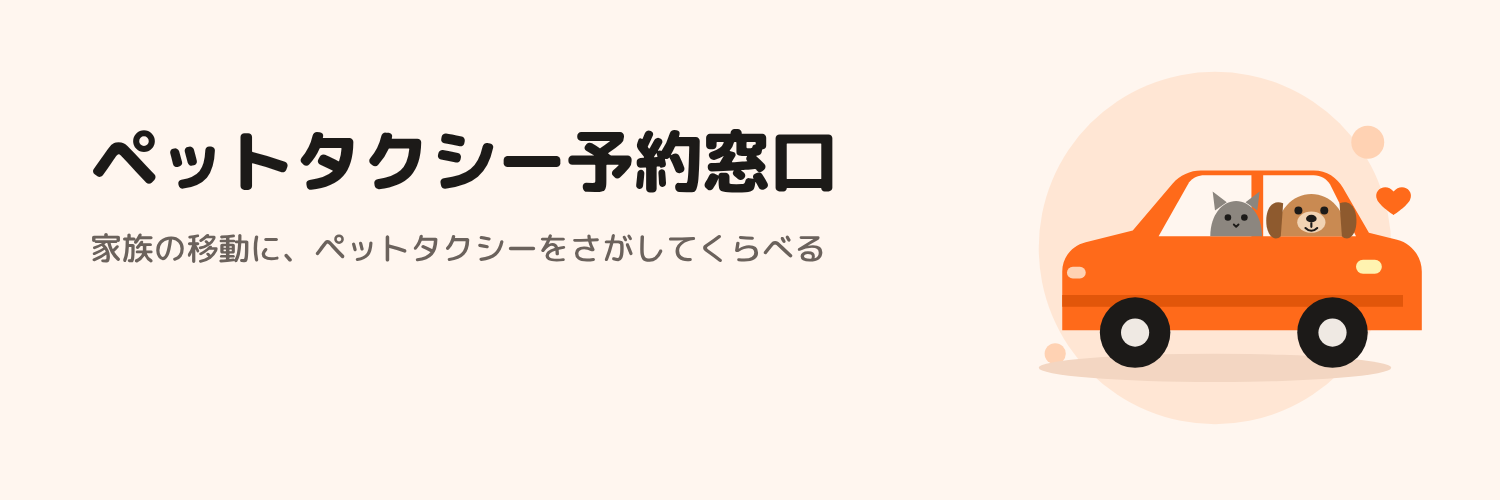
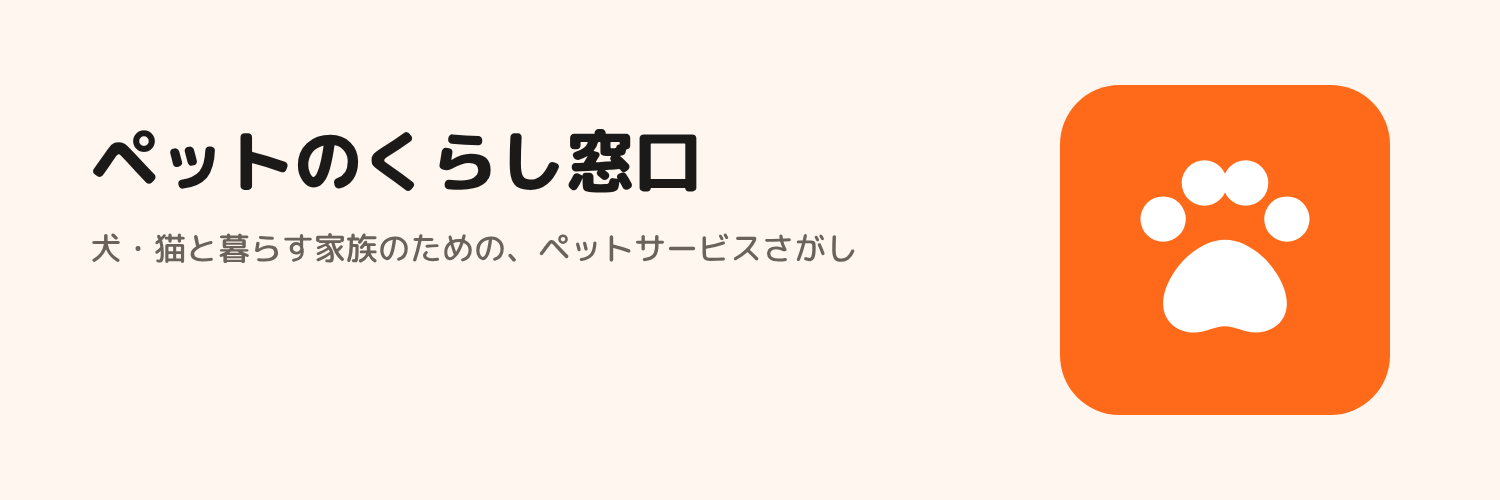
[B] SNS：名前を「ペットのくらし窓口」に（肉球アイコン・ヘッダー・自己紹介・1本目） (#197)
Claude-Session: https://claude.ai/code/session_01Tf5d8e4xt7p1ztL65b1WQs

Changed region(s): [[0.6747, 0.12, 0.9507, 0.87], [0.184, 0.24, 0.5827, 0.39], [0.0613, 0.45, 0.5827, 0.54]]

diff --git a/sns/schedule_x.py b/sns/schedule_x.py
@@ -1,5 +1,5 @@
 #!/usr/bin/env python3
-"""Xの予約投稿（ペットタクシー予約窓口 @pettaxi_yoyaku）。
+"""Xの予約投稿（ペットのくらし窓口。旧 @pettaxi_yoyaku）。
 
 Nori 2026-11-02「僕の作業はゼロにしたい」「無料でもう1つ（週2回）」。
 sns/posts.json の投稿を、まだ予約していない順に、火曜と金曜の20時（日本時間）へ予約する。
@@ -14,7 +14,7 @@ import json, os, subprocess, sys, time, datetime as dt, urllib.request, urllib.e
 HERE = os.path.dirname(os.path.abspath(__file__))
 ROOT = os.path.dirname(HERE)
 API = "https://api.typefully.com/v2"
-HANDLES = {"pettaxi_yoyaku", "shiokonbu_pet"}  # ユーザー名を変えても同じアカウントに入れる
+HANDLES = {"pettaxi_yoyaku", "pet_kurashi", "petkurashi_mado"}  # ユーザー名を変えても同じアカウントに入れる
 JST = dt.timezone(dt.timedelta(hours=9))
 SLOTS = {1: 20, 4: 20}  # 火曜(1)・金曜(4) の20時
 # 文の決まり（AGENTS.md）。1つでも入っていたら予約しない。

diff --git a/sns/README.md b/sns/README.md
@@ -1,4 +1,6 @@
-# XとInstagramの専用アカウント（ペットタクシー予約窓口）
+# XとInstagramの専用アカウント（ペットのくらし窓口）
+
+[B] SNS。2026-11-03 構想 v1.0（`docs/concept.md`：ペットタクシーを上位概念にしない）に合わせて、名前を「ペットタクシー予約窓口」から「ペットのくらし窓口」に変えた（Nori「shiokonbuはつかわないで」「そうしよ」）。名前・ユーザー名に shiokonbu は使わない。
 
 2026-11-02 Nori「X, Instagramは新しい専用のアカウントを作って、投稿するのはアリ」「リンクは貼らない」。
 ガイド記事の中身を、リンクなしの短い投稿にして発信する。サイトへの道は、プロフィールのウェブサイト欄だけ。
@@ -7,7 +9,7 @@
 |---|---|
 | `posts.json` | 投稿の元データ（直すのはここ） |
 | `posts.md` | 最初の10投稿（X用・Instagram用の文、コピーして貼る） |
-| `img/avatar.png` | アイコン（X・Instagram共通、1024×1024。LINEの案Bと同じ絵） |
+| `img/avatar.png` | アイコン（X・Instagram共通、1024×1024。オレンジの肉球マーク＝サイトの favicon と同じ形） |
 | `img/x-header.png` | Xのヘッダー（1500×500） |
 | `img/post01.jpg`〜`post10.jpg` | 投稿の画像（1080×1350、X・Instagram共通） |
 | `gen.cjs` | 画像と `posts.md` を作り直す（`node sns/gen.cjs`。何も投稿しない） |
@@ -16,9 +18,9 @@
 
 | | X | Instagram |
 |---|---|---|
-| 表示名 | ペットタクシー予約窓口 | ペットタクシー予約窓口 |
-| ユーザー名（第1候補） | `pettaxi_yoyaku` | `pettaxi.yoyaku` |
-| 使われていたとき | `pet_taxi_yoyaku` → `pettaxi_mado` | `pettaxi_yoyaku` → `pet.taxi.yoyaku` |
+| 表示名 | ペットのくらし窓口 | ペットのくらし窓口 |
+| ユーザー名（第1候補） | `pet_kurashi`（旧 `pettaxi_yoyaku`） | `pet.kurashi`（旧 `pettaxi.yoyaku`） |
+| 使われていたとき | `petkurashi_mado` | `petkurashi.mado` |
 | メール | pettaxi.yoyaku@gmail.com（サービスの窓口のアドレス） | 同じ |
 | 種類 | ふつうのアカウント | プロアカウント（ビジネス）。カテゴリは「ペットサービス」に近いもの |
 
@@ -31,20 +33,21 @@
 **X（160文字まで）**
 
 ```
-犬・猫・うさぎなど、家族の移動のためのペットタクシーを全国からさがして、料金の目安をくらべられるサイトです。通院・介護・大型犬・多頭の移動のヒントを発信しています。
+犬・猫と暮らす家族のための、ペットサービスさがし。いまはペットタクシー（通院・介護・大型犬・多頭）の情報から。シニアの子の介護やしつけ・トリミングのことも順番にお届けします。
 ```
 
 **Instagram（150文字まで）**
 
 ```
-家族の移動に、ペットタクシーという選択🐶🐱
-全国のペットタクシーをさがして、料金の目安をくらべられます
-通院・介護・大型犬・多頭の移動のヒントを発信
+犬・猫と暮らす家族のための、ペットサービスさがし🐾
+いまはペットタクシー（通院・介護・大型犬・多頭）から
+シニアの子の介護・しつけ・トリミングも順番に
 ```
 
 - ウェブサイト欄：`https://pet.shiokonbu.com/`（リンクはここだけ。投稿には貼らない）
 - 場所の欄は空のまま。
 - 運営者の名前・住所・電話番号、飼っている子の名前やブログは出さない。
+- 投稿の話題は「移動」（ペットタクシー）を中心に、在宅ケア（シニア・介護）・しつけ・美容の話も少しずつ混ぜる（構想[A]のカテゴリ）。
 
 ## 3. 投稿のしかた
 
@@ -70,8 +73,8 @@ Xの予定（11/3 から）：11/3 1 はじめまして、11/6 2 タクシーと
 
 Nori 2026-11-02「僕の作業はゼロにしたい」。始めたあとは Nori さんの確認なしの完全自動。
 
-- アカウント：X [@pettaxi_yoyaku](https://x.com/pettaxi_yoyaku)、Instagram [pettaxi.yoyaku](https://www.instagram.com/pettaxi.yoyaku/)（ビジネス）。どちらも pettaxi.yoyaku@gmail.com で登録。パスワードは Nori さんの Chrome に保存。
-- **X**：ペットタクシー用の無料の予約サービス（Typefully。KONBU とは別のアカウント）に @pettaxi_yoyaku をつないである。`.github/workflows/sns-x.yml` が毎週日曜12時に `sns/schedule_x.py` を動かし、`posts.json` のまだ予約していない投稿を2つ、次の火・金20時に予約する。画像はガイド記事の写真だけ（`posts.json` の `photo`。文字やロゴ入りの `img/postNN.jpg` は広告っぽいので使わない。Nori 2026-11-02）。手で動かすとき `redo` を選ぶと、まだ出ていない予約を消して入れ直す。予約したものは `sns/state.json` に記録。キーは GitHub の Secret `TYPEFULLY_API_KEY`。ユーザー名が pettaxi_yoyaku のアカウントにしか入れない。投稿が残っていないと Issue「Xの投稿が残っていません」が開く → `posts.json` に足して `node sns/gen.cjs`。
+- アカウント：X @pet_kurashi（旧 @pettaxi_yoyaku）、Instagram pet.kurashi（旧 pettaxi.yoyaku）（ビジネス）。どちらも pettaxi.yoyaku@gmail.com で登録。パスワードは Nori さんの Chrome に保存。
+- **X**：ペットタクシー用の無料の予約サービス（Typefully。KONBU とは別のアカウント）にこのXをつないである。`.github/workflows/sns-x.yml` が毎週日曜12時に `sns/schedule_x.py` を動かし、`posts.json` のまだ予約していない投稿を2つ、次の火・金20時に予約する。画像はガイド記事の写真だけ（`posts.json` の `photo`。文字やロゴ入りの `img/postNN.jpg` は広告っぽいので使わない。Nori 2026-11-02）。手で動かすとき `redo` を選ぶと、まだ出ていない予約を消して入れ直す。予約したものは `sns/state.json` に記録。キーは GitHub の Secret `TYPEFULLY_API_KEY`。ユーザー名がこのアカウントのもの（`schedule_x.py` の `HANDLES`）のときだけ入れる。手で動かすとき `hold` を選ぶと、まだ出ていない予約を消して止める。投稿が残っていないと Issue「Xの投稿が残っていません」が開く → `posts.json` に足して `node sns/gen.cjs`。
 - 予約の前に、文の決まり（上の4.の言葉・リンク・長さ）をスクリプトでも確かめる。
 - **Instagram**：自動のつなぎこみはまだ（予約サービスが Instagram に対応していないため、方法を調べ中）。
 - 返信・コメント・DM・フォローはしない。

diff --git a/AGENTS.md b/AGENTS.md
@@ -87,7 +87,7 @@
 | `booking/Code.gs` | 予約の仕組み（Apps Script）。**リポジトリにあっても本番には自動で反映されません**（下記） |
 | `booking/accept-preview.html` | 会社の引き受け画面の見た目確認用 |
 | `docs/` | 手順書（`codex.md`＝Codexの使い方、`ai-backup.md`＝GitHubで動く予備のAI、`seo-agents.md`＝エリア担当のSEO Agent（担当・順番・手順）、`seo-agents/`＝担当ごとの候補、`seo-log.md`＝SEOの作業メモ） |
-| `sns/` | XとInstagramの専用アカウントの計画・プロフィール・投稿の元データ（`posts.json`）と画像（`node sns/gen.cjs` で作る）。投稿にはリンクを貼らない（Nori 2026-11-02）。Xは `.github/workflows/sns-x.yml` が毎週日曜に `sns/schedule_x.py` で火・金20時に自動で予約する（Nori「僕の作業はゼロにしたい」、確認なし）。サイトのページではない |
+| `sns/` | XとInstagramの専用アカウント（名前は「ペットのくらし窓口」。shiokonbu は使わない。Nori 2026-11-03）の計画・プロフィール・投稿の元データ（`posts.json`）と画像（`node sns/gen.cjs` で作る）。投稿にはリンクを貼らない（Nori 2026-11-02）。Xは `.github/workflows/sns-x.yml` が毎週日曜に `sns/schedule_x.py` で火・金20時に自動で予約する（Nori「僕の作業はゼロにしたい」、確認なし）。サイトのページではない |
 | `tools/partner_shots.cjs` | 提携のご案内ページの「画面の見本」（`img/partner/`）を、`booking/Code.gs` の本物の文面・画面と架空の依頼で撮り直す（`node tools/partner_shots.cjs`）。会社あてのメールや引き受け画面を変えたら撮り直す。何も送らない |
 | `tools/site_watch.py` | 公式サイトとデータベースの照合（Nori 2026-11-01「毎回LLMとかで情報を参照するのはやめたい。DB化して、定期的にサイトの情報とDBの情報があっているかをチェック」）。`tools/site_watch.json`（公式サイトのURLと、そこに書いてある文・料金の数字だけ）のページを開き、いまもあるかを確かめる。`.github/workflows/site-watch.yml` が毎週月曜9時に動かして Issue「公式サイトとデータベースの照合」（ラベル site-watch）にまとめる。何も送らない。一覧は事業者マスターから `master/conditions/gen_watch.py` で作る。条件（同乗人数・頭数・大型犬・ワクチン・ケージ・ペットだけ）の決まった形の値は `master/conditions/conditions.json`（作り方 `build_db.py`）が正本で、照合や判定はこの値だけを見る（毎回文を読み直さない） |
 | `tools/seo_check.py` | SEOと文言ルールの自動チェック（title・説明文・canonical・h1・電話番号・ツール名など）。PRごとに `.github/workflows/seo-check.yml` で動く |

diff --git a/sns/posts.md b/sns/posts.md
@@ -10,18 +10,18 @@
 ### X
 
 ```
-はじめまして。ペットタクシー予約窓口です。
-犬・猫・うさぎなど、家族の移動に使えるペットタクシーのことを、全国の会社の公式サイトを読んで調べたことから発信していきます。
-通院・介護・大型犬・多頭の移動のヒントを、少しずつお届けします。
-#ペットタクシー
+はじめまして。ペットのくらし窓口です。
+犬・猫・うさぎなど、家族の移動やお世話に使えるペットサービスのことを、各社の公式サイトを読んで調べたことから発信していきます。
+まずはペットタクシー（通院・介護・大型犬・多頭）の話から。
+#ペットのいる暮らし
 ```
 
 ### Instagram
 
 ```
-はじめまして。ペットタクシー予約窓口です。
-犬・猫・うさぎなど、家族の移動に使えるペットタクシーのことを、全国の会社の公式サイトを読んで調べたことから発信していきます。
-通院・介護・大型犬・多頭の移動のヒントを、少しずつお届けします。
+はじめまして。ペットのくらし窓口です。
+犬・猫・うさぎなど、家族の移動やお世話に使えるペットサービスのことを、各社の公式サイトを読んで調べたことから発信していきます。
+まずはペットタクシー（通院・介護・大型犬・多頭）の話から。
 
 くわしくは、プロフィールのサイトの「ガイド」にまとめています。
 
